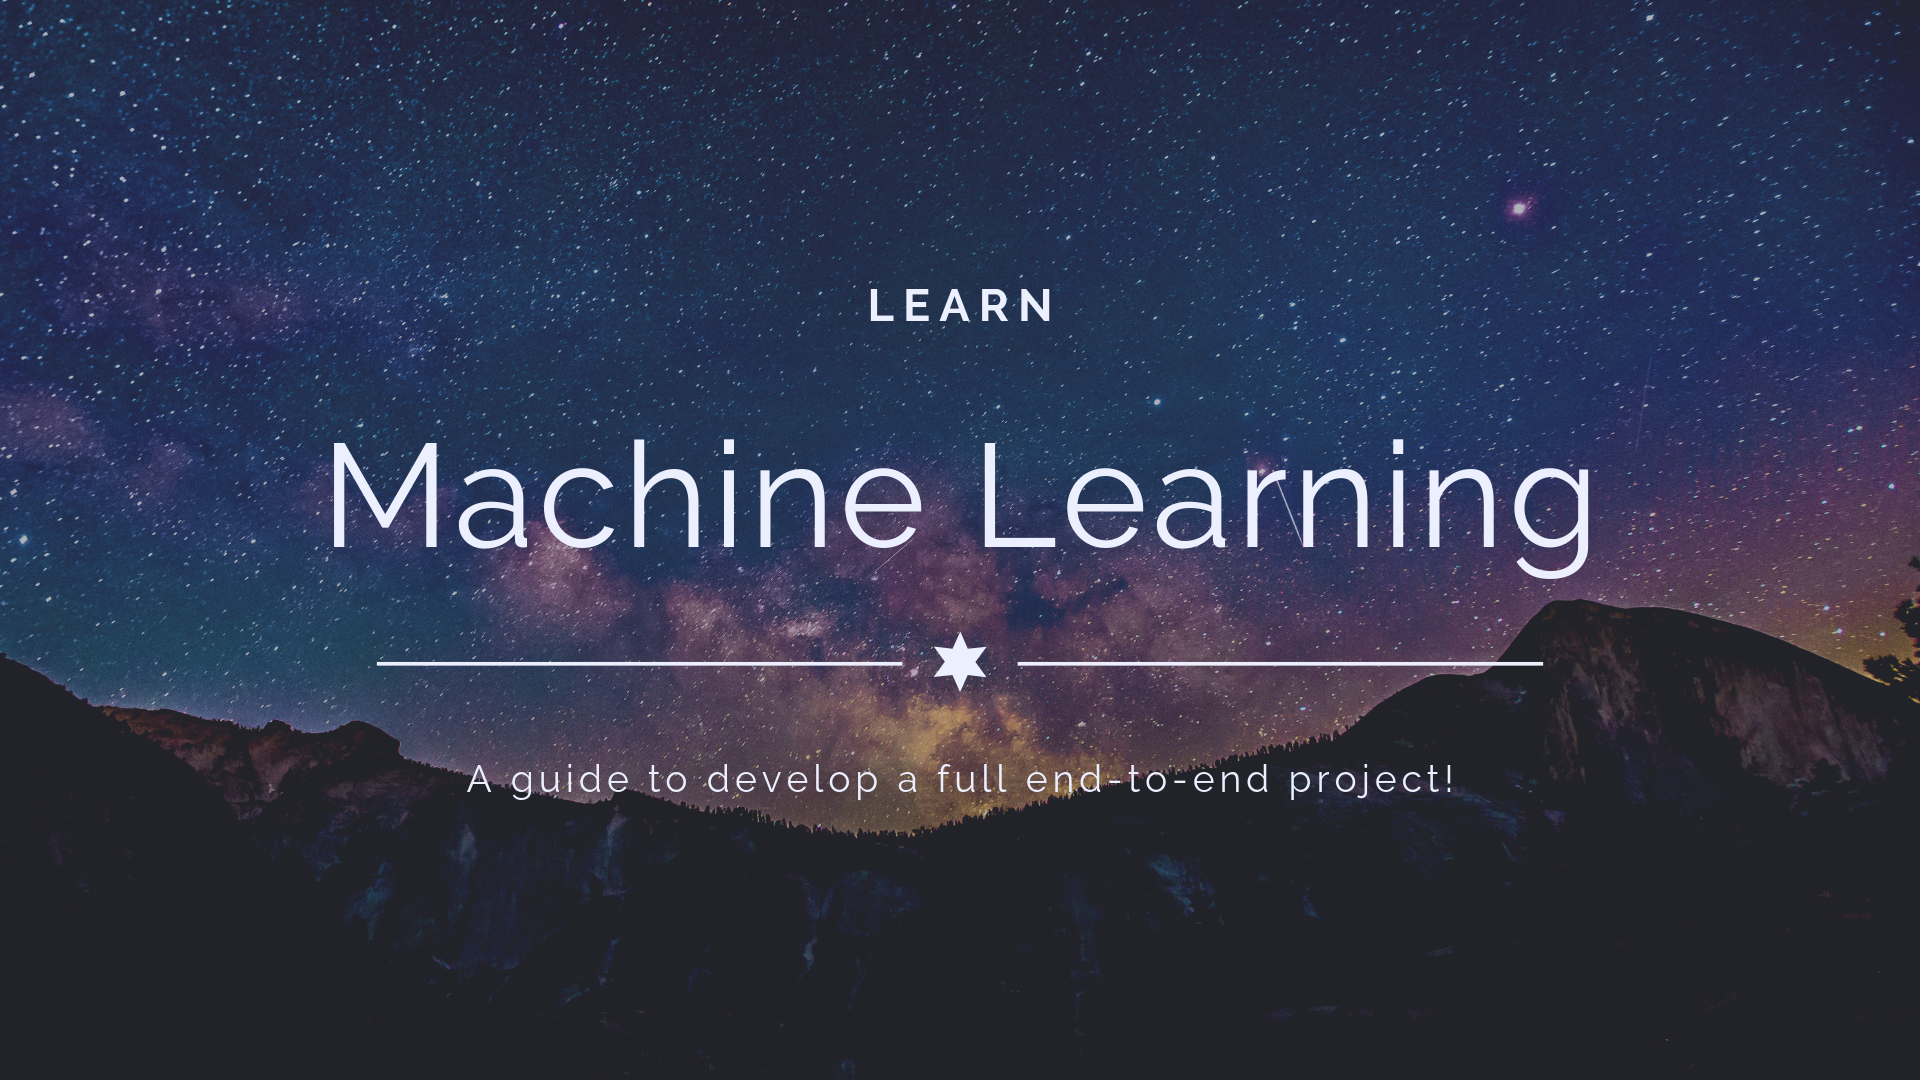
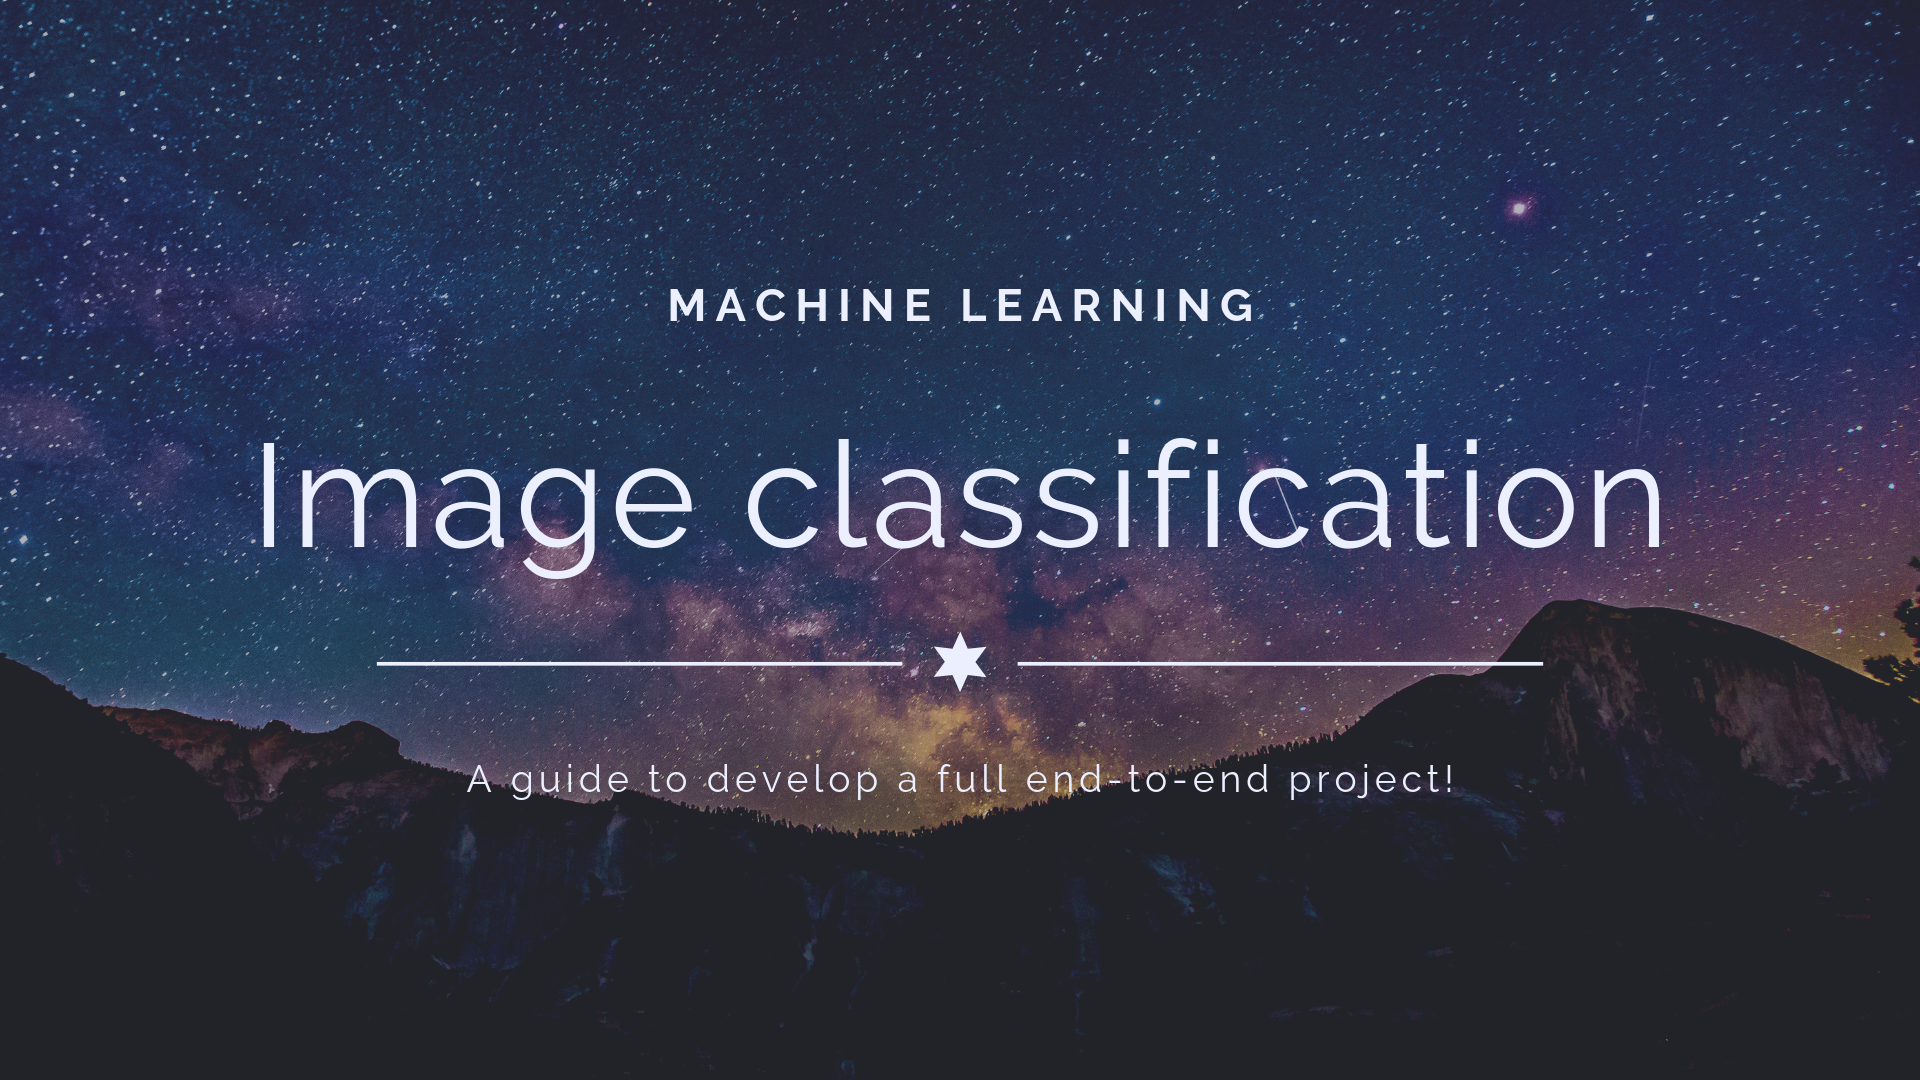
Updated the README.md file"

Changed region(s): [[0.125, 0.3972, 0.875, 0.55], [0.3438, 0.2444, 0.6562, 0.3056]]

diff --git a/README.md b/README.md
@@ -1,20 +1,20 @@
-Housing Price Prediction Using Regression
+Image Classification Using Stochastic Gradient Descent and KNeighborsClassifier
 ==========================
 
-![Learn Machine learning](https://raw.githubusercontent.com/gurupratap-matharu/machine-learning-regression/master/images/header.png)
+![Learn Machine learning](https://raw.githubusercontent.com/gurupratap-matharu/machine-learning-classification-MNIST-dataset/master/images/header.png)
 
-#### Color density map of housing districts in california
-![California Map](https://raw.githubusercontent.com/gurupratap-matharu/machine-learning-regression/master/images/california.png)
+#### Analysis of mis-interpreted digits
+![Misinterpreted 3s and 5s](https://raw.githubusercontent.com/gurupratap-matharu/machine-learning-classification-MNIST-dataset/master/images/misinterpreted_3s_and_5s.png)
 
-* A machine learning regression model that is trained on California Housing Prices dataset from the StatLib repository. 
-* We are doing supervised learning here and our aim is to do predictive analysis
+* A machine learning classification model that is trained on the MNIST images dataset from the ML data.org repository. 
+* We are doing supervised learning here and our aim is to do image classification and noise reduction 
 * During our journey we'll understand the important tools needed to develop a powerful ML model
-* Our aim is to play with tools like cross validation, GridSearchCV, Random Forests and Pipelines to reach our goal
-* We'll evaluate the performance of each of our model using RMSE and also tune hyper parameters to further optimize our model
+* Our aim is to play with tools like Stochastic Gradient Descent, KNeighbors classifier, confusion matrix, Precision, Recall, ROC curves, Area under ROC, cross validation and GridSearchCV to reach our goal.
+* We'll evaluate the performance of each of our classifier using Precision scores, Recall scores, and also tune hyper parameters to further optimize our model
 * We'll validate our predictions against our test dataset and conclude our learnings
 
-#### We will learn how to plot density maps
-![DensityMap](https://raw.githubusercontent.com/gurupratap-matharu/machine-learning-regression/master/images/densitymap.png)
+#### We will learn how to plot confusion matrix
+![Confusion Matrix](https://raw.githubusercontent.com/gurupratap-matharu/machine-learning-classification-MNIST-dataset/master/images/confusion_matrix.png)
 
 
 #### To do an end-to-end Machine Learning project we need to do the following steps
@@ -25,16 +25,25 @@ Housing Price Prediction Using Regression
 4. Pre-process the data to make it ready to feed to our ML model.
 5. Try various models and train them. Select one that we find best.
 6. Fine-tune our model by tuning hyper-parameters
-7. Present your solution to the team.
-8. Launch, monitor, and maintain your system.
+7. Present our solution to the team.
+8. Launch, monitor, and maintain our system.
 
-#### To get a better intuition we'll plot histograms of various attributes.
-![Histograms](https://raw.githubusercontent.com/gurupratap-matharu/machine-learning-regression/master/images/histograms.png)
+#### To optimize our classifier we'll plot Precision-Recall Vs Threshold curves.
+![Precision-Recall Vs Threshold](https://raw.githubusercontent.com/gurupratap-matharu/machine-learning-classification-MNIST-dataset/master/images/Precision_Recall_Vs_Threshold.png)
 
-#### To find hidden patterns we'll analyze correlations among different attributes of our dataset.
-![Correlations](https://raw.githubusercontent.com/gurupratap-matharu/machine-learning-regression/master/images/correlations.png)
+#### To find where our classifier is making mistakes we'll plot the confusion matrix to pin down the error 
+![Confusion Matrix](https://raw.githubusercontent.com/gurupratap-matharu/machine-learning-classification-MNIST-dataset/master/images/confusion_matrix.png)
+
+#### To compare the performance of our models we'll plot their ROC AUC
+![Roc curve](https://raw.githubusercontent.com/gurupratap-matharu/machine-learning-classification-MNIST-dataset/master/images/ROC_curve_SGD_vs_RandomForest.png)
 
 
+#### We will train a KNeighbors classifier to do noise reduction from corrputed images.
+![Roc curve](https://raw.githubusercontent.com/gurupratap-matharu/machine-learning-classification-MNIST-dataset/master/images/noisy_digit_example_plot.png)
+
+## Conclusion
+![Presentation](https://raw.githubusercontent.com/gurupratap-matharu/machine-learning-classification-MNIST-dataset/master/images/presentation.jpg)
+At the end of our project we'll be able to derive insights to present to our team. 
 # Installation
 
 First, you will need to install [git](https://git-scm.com/), if you don't have it already.
@@ -42,7 +51,7 @@ First, you will need to install [git](https://git-scm.com/), if you don't have i
 Next, clone this repository by opening a terminal and typing the following commands:
 
     $ cd $HOME  # or any other development directory you prefer
-    $ git clone https://github.com/gurupratap-matharu/machine-learning-regression
+    $ git clone https://github.com/gurupratap-matharu/machine-learning-classification-MNIST-dataset
 
 
 If you are familiar with Python and you know how to install Python libraries, go ahead and install the libraries 
@@ -90,6 +99,3 @@ Great! We are all setup to do some data science and machine learning!
 
 I would like to thank Aurélien Géron and his wonderful book Machine Learning with ScikitLearn and TensorFlow. I highly recommend this book.
 
-## Conclusion
-![Skyline](https://raw.githubusercontent.com/gurupratap-matharu/machine-learning-regression/master/images/skyline.jpg)
-At the end of our project we'll be able to derive insights to present to our team. 
